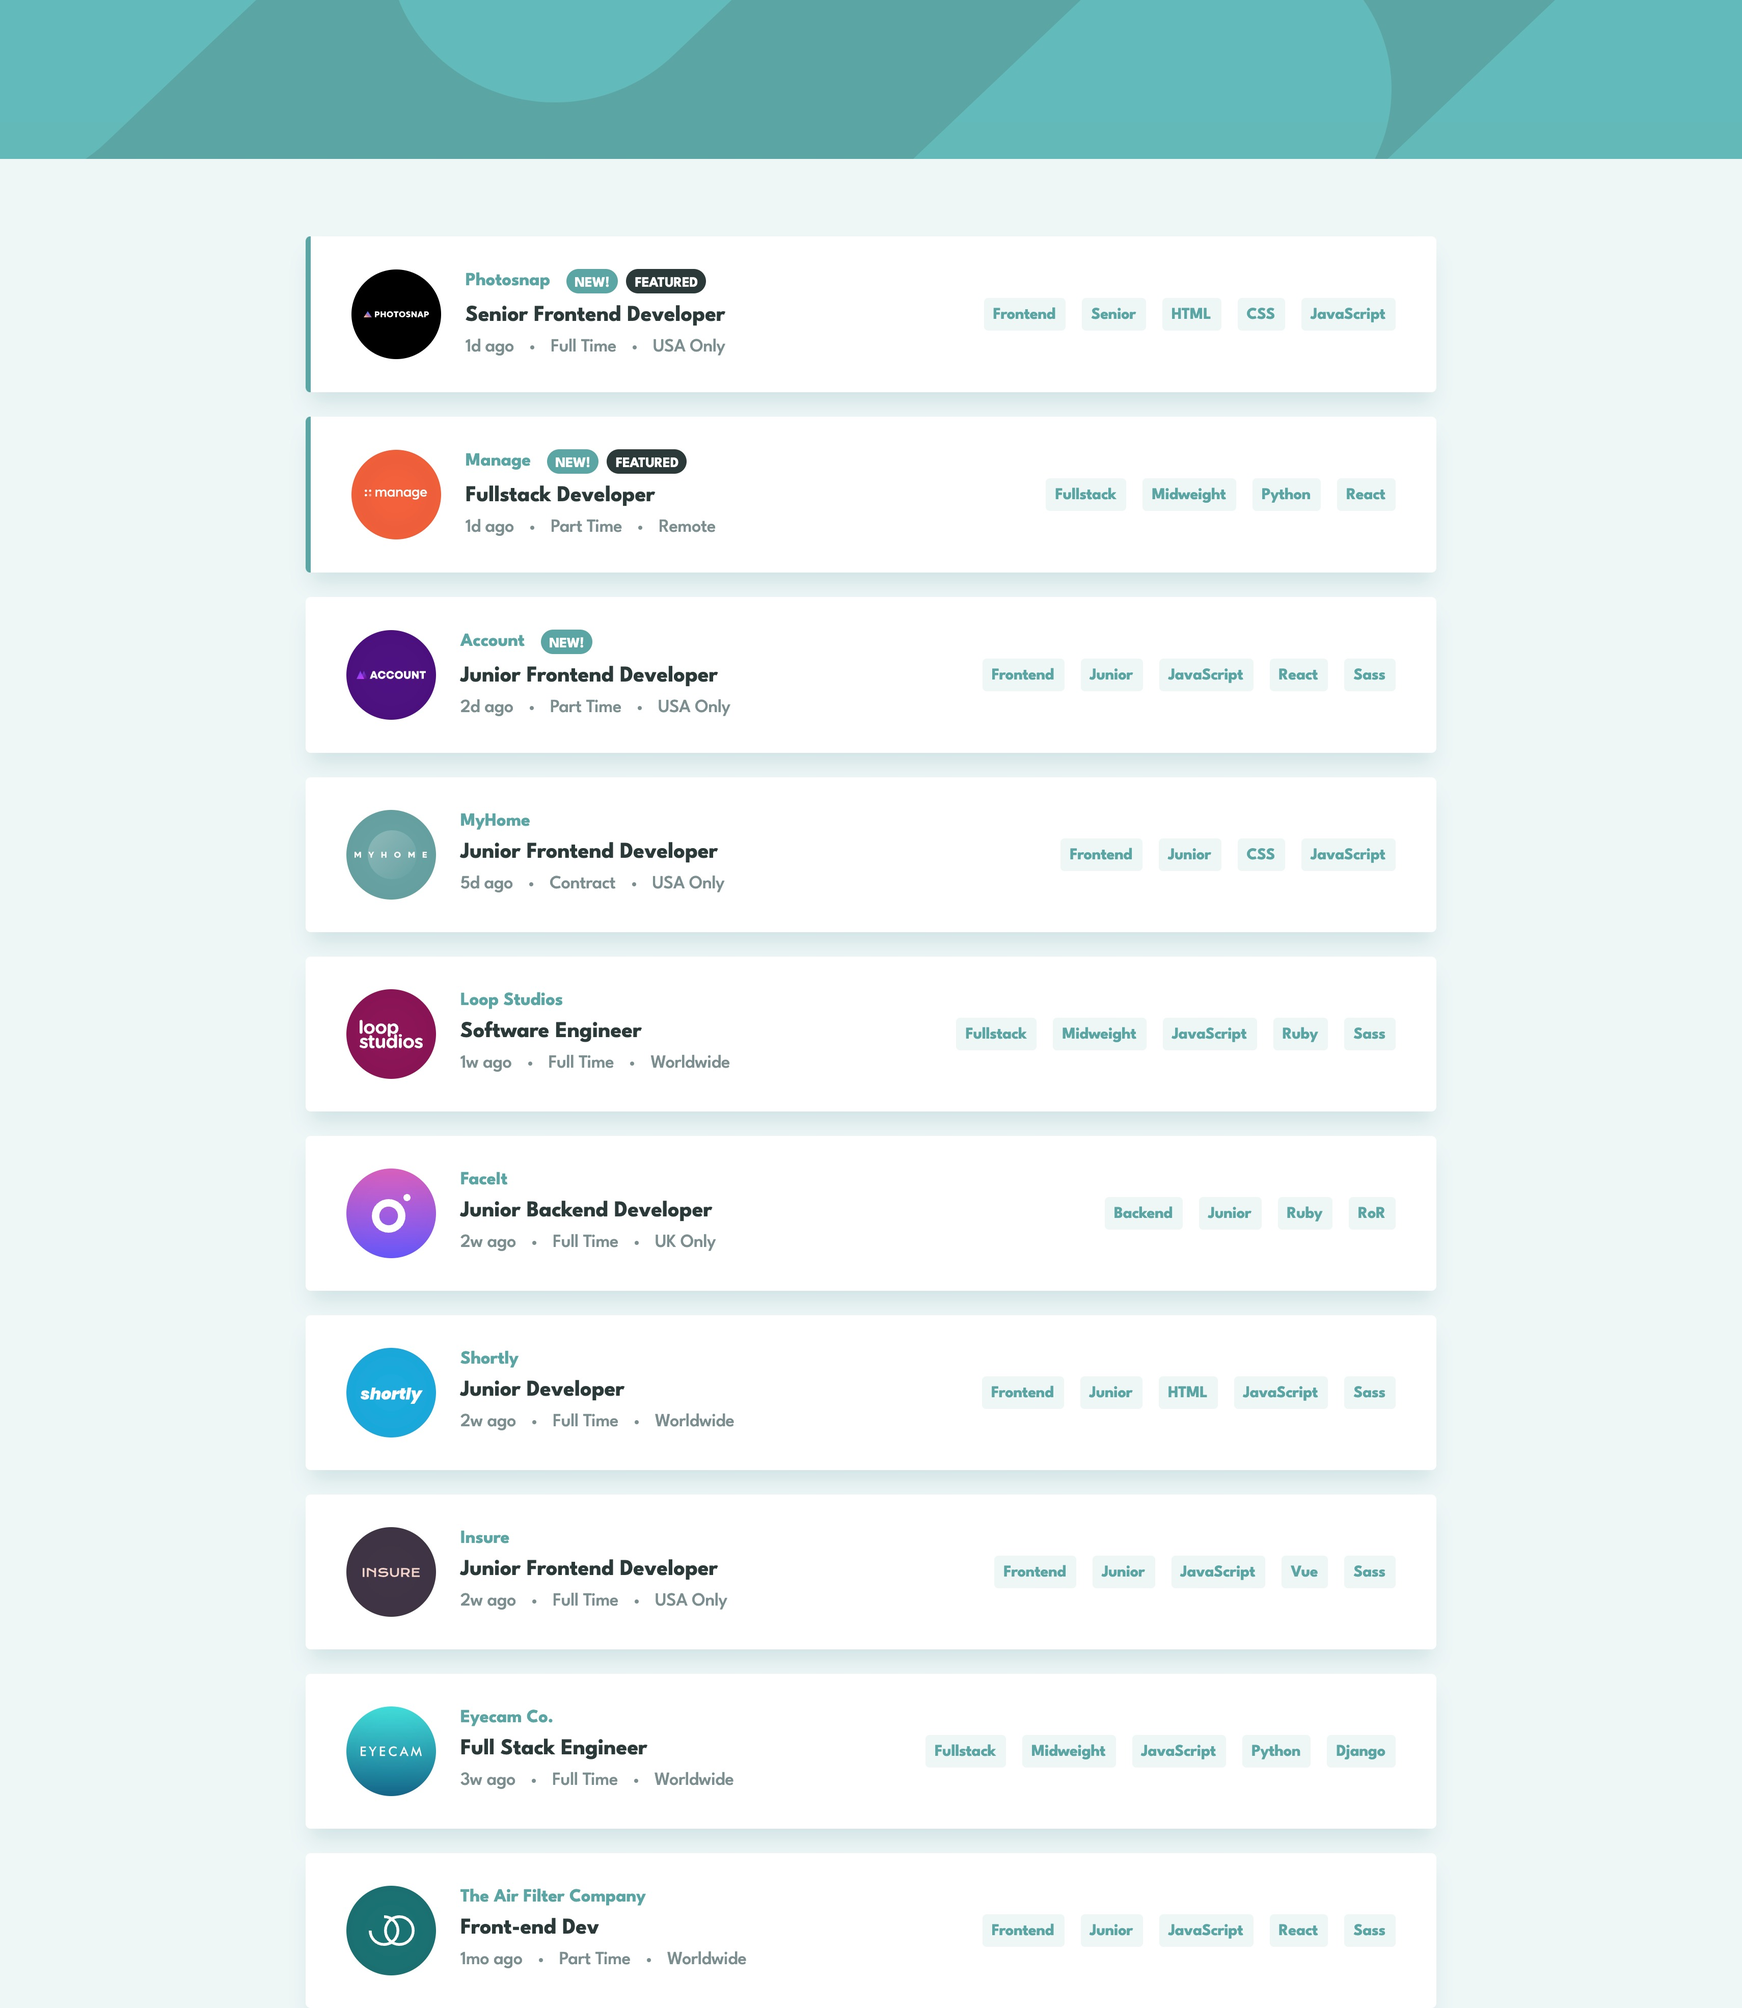
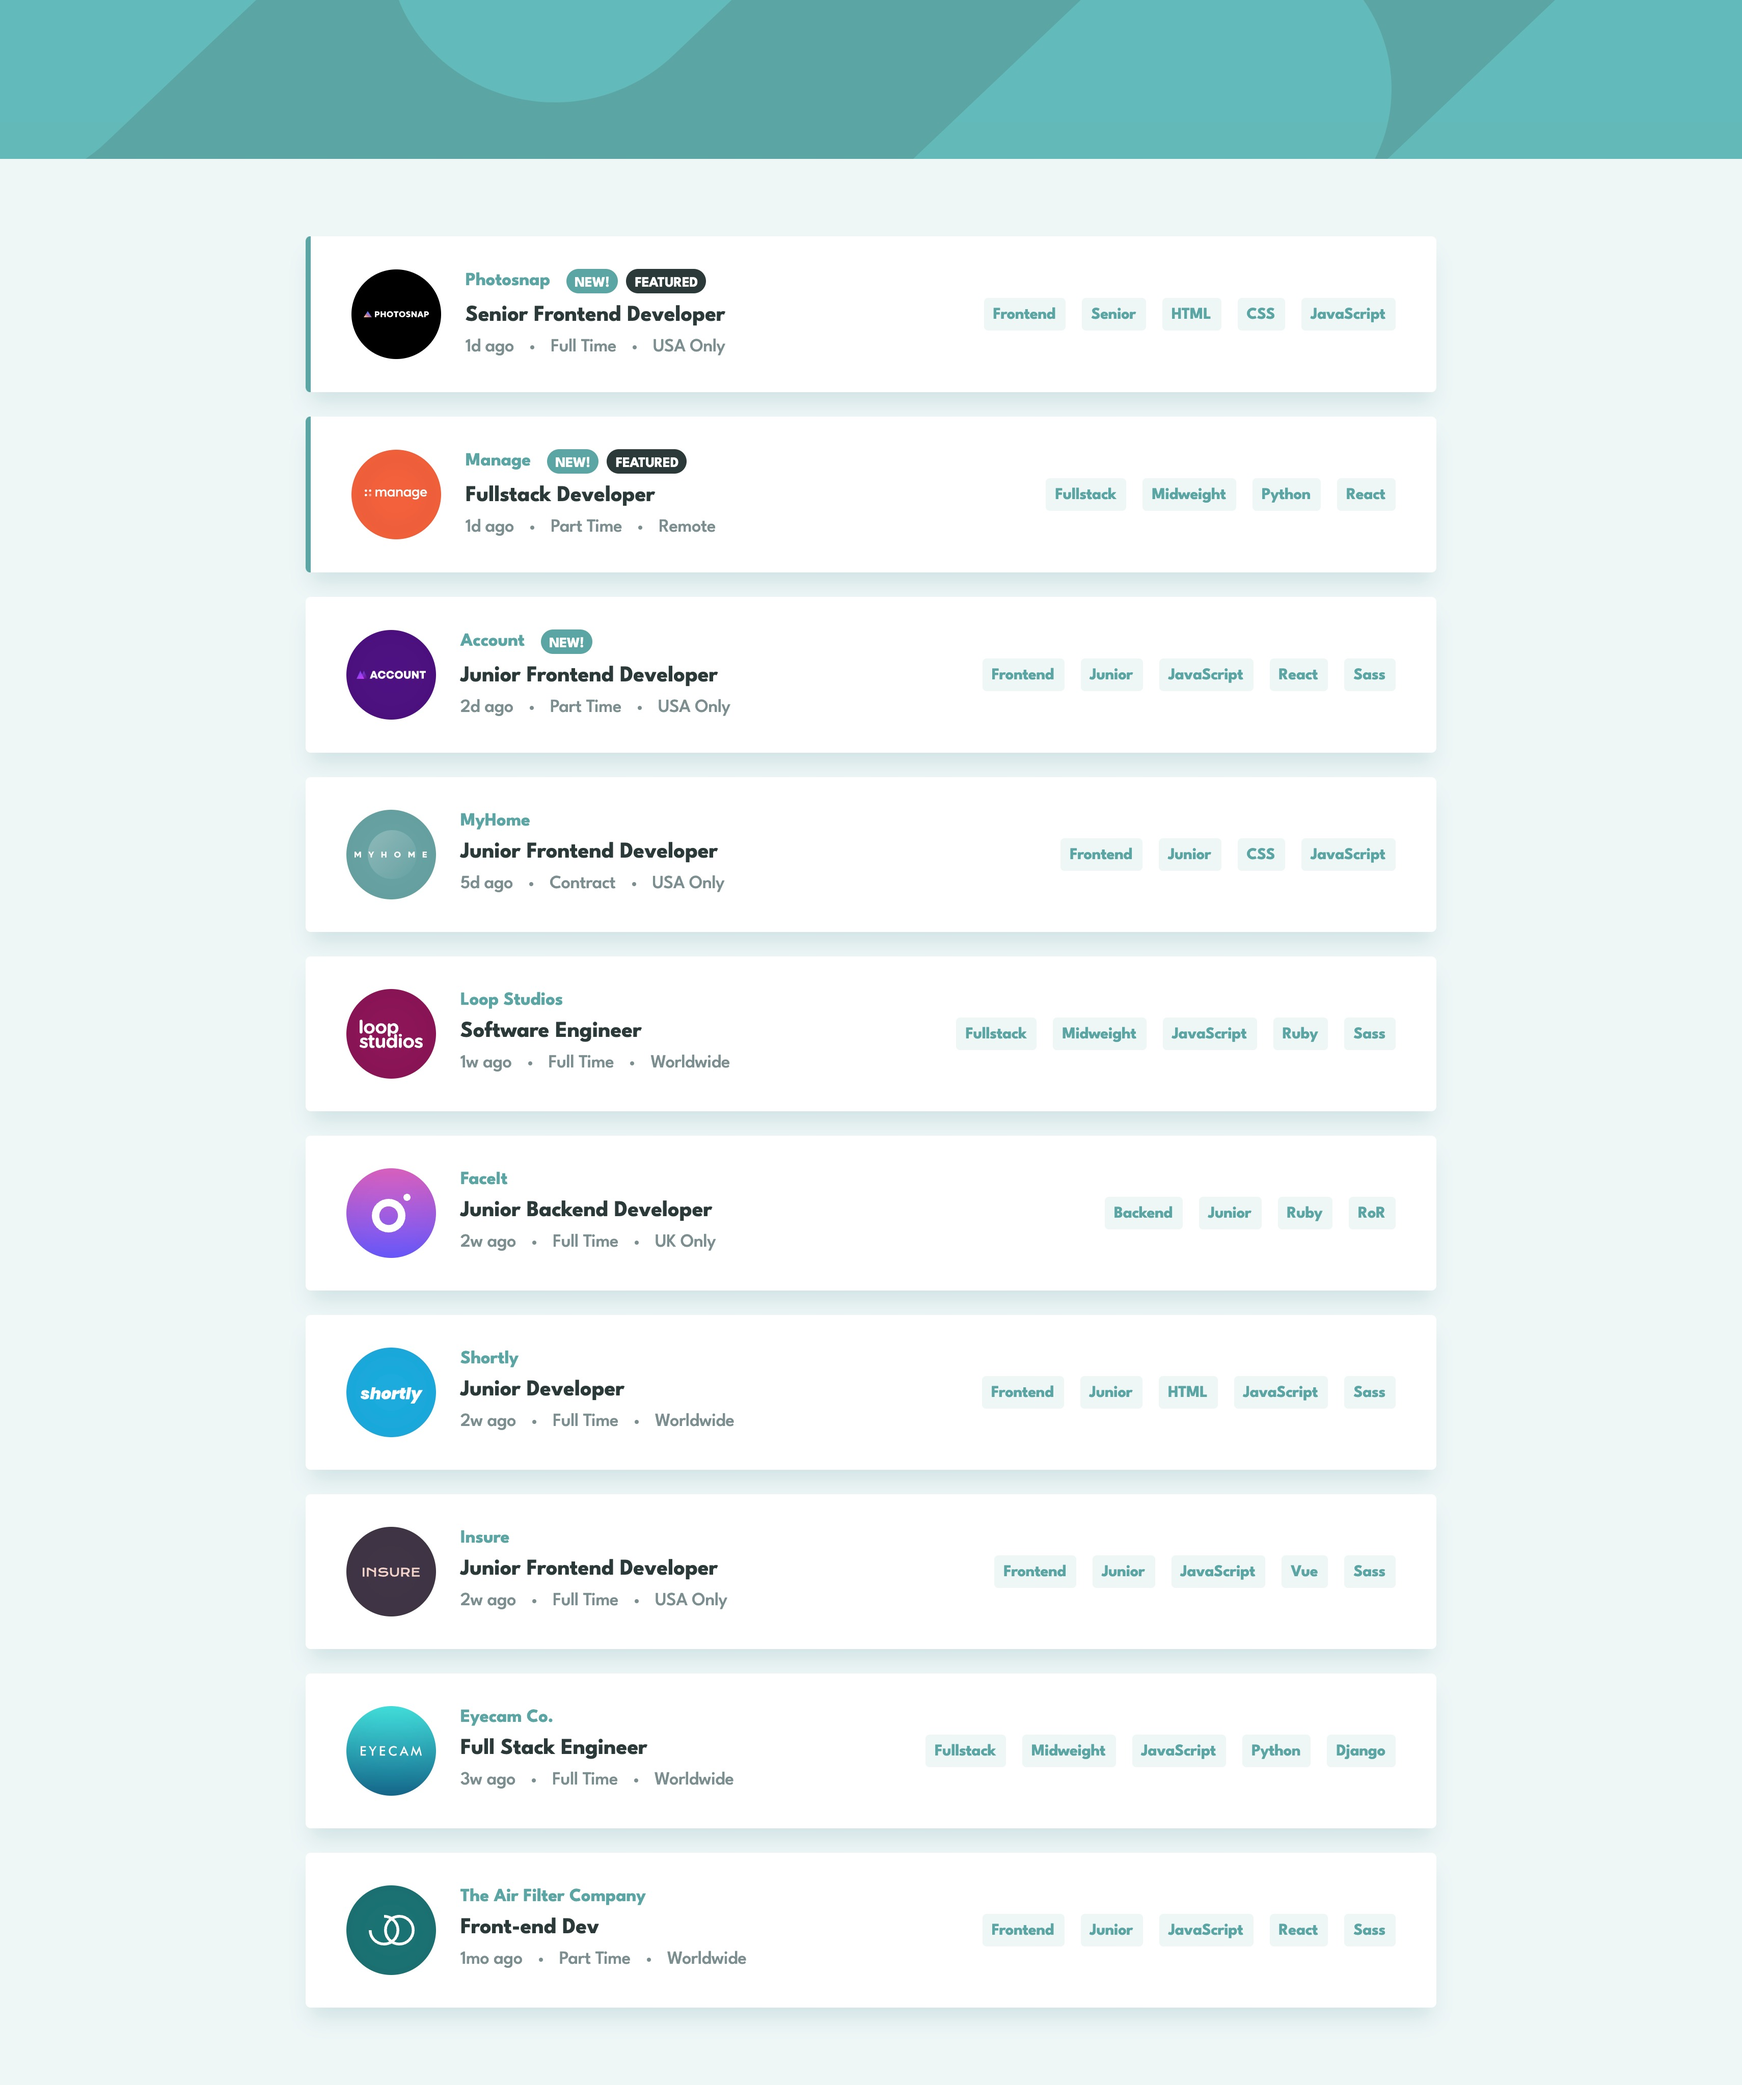
fix and read me finished

Changed region(s): [[0.155, 0.1248, 0.8368, 0.9985], [0.6199, 0.1248, 0.6509, 0.156]]

diff --git a/src/app/app.component.ts b/src/app/app.component.ts
@@ -8,9 +8,6 @@ import { Component } from '@angular/core';
       <app-jobs-filter-box></app-jobs-filter-box>
       <app-jobs-list></app-jobs-list>
     </main>
-    <footer class="footer">
-      
-    </footer>
   `,
   styles: [
     `
@@ -24,7 +21,7 @@ import { Component } from '@angular/core';
 
       .main {
         background-color: rgba(92, 165, 165, 0.1);
-        padding: 0 16.5rem;
+        padding: 0 16.5rem 7.6rem 16.5rem;
         position: absolute;
         top: 12rem;
         min-height: 100vh;

diff --git a/README.md b/README.md
@@ -26,12 +26,12 @@ Users should be able to:
 
 ### Screenshot
 
-![](./screenshot.jpeg)
+![https://fg-job-listings-with-filtering.netlify.app/](./screenshot.jpeg)
 
 ### Links
 
-- Solution URL: [GitHub repository](https://github.com/FerdinandoGeografo/job-listings-with-filtering)
-- Live Site URL: [fg-job-listings-with-filtering](https://fg-job-listings-with-filtering.netlify.app/)
+- Solution URL: [https://github.com/FerdinandoGeografo/job-listings-with-filtering](https://github.com/FerdinandoGeografo/job-listings-with-filtering)
+- Live Site URL: [https://fg-job-listings-with-filtering.netlify.app/](https://fg-job-listings-with-filtering.netlify.app/)
 
 ## My process
 
@@ -42,7 +42,7 @@ Users should be able to:
 - Flexbox
 - Mobile-first workflow
 - [rxjs](https://rxjs.dev/) - JS library
-- [Angular](https://angular.io/docs) - TS framework
+- [Angular](https://angular.io/docs) - JS framework with TypeScript
 
 ### What I learned
 
